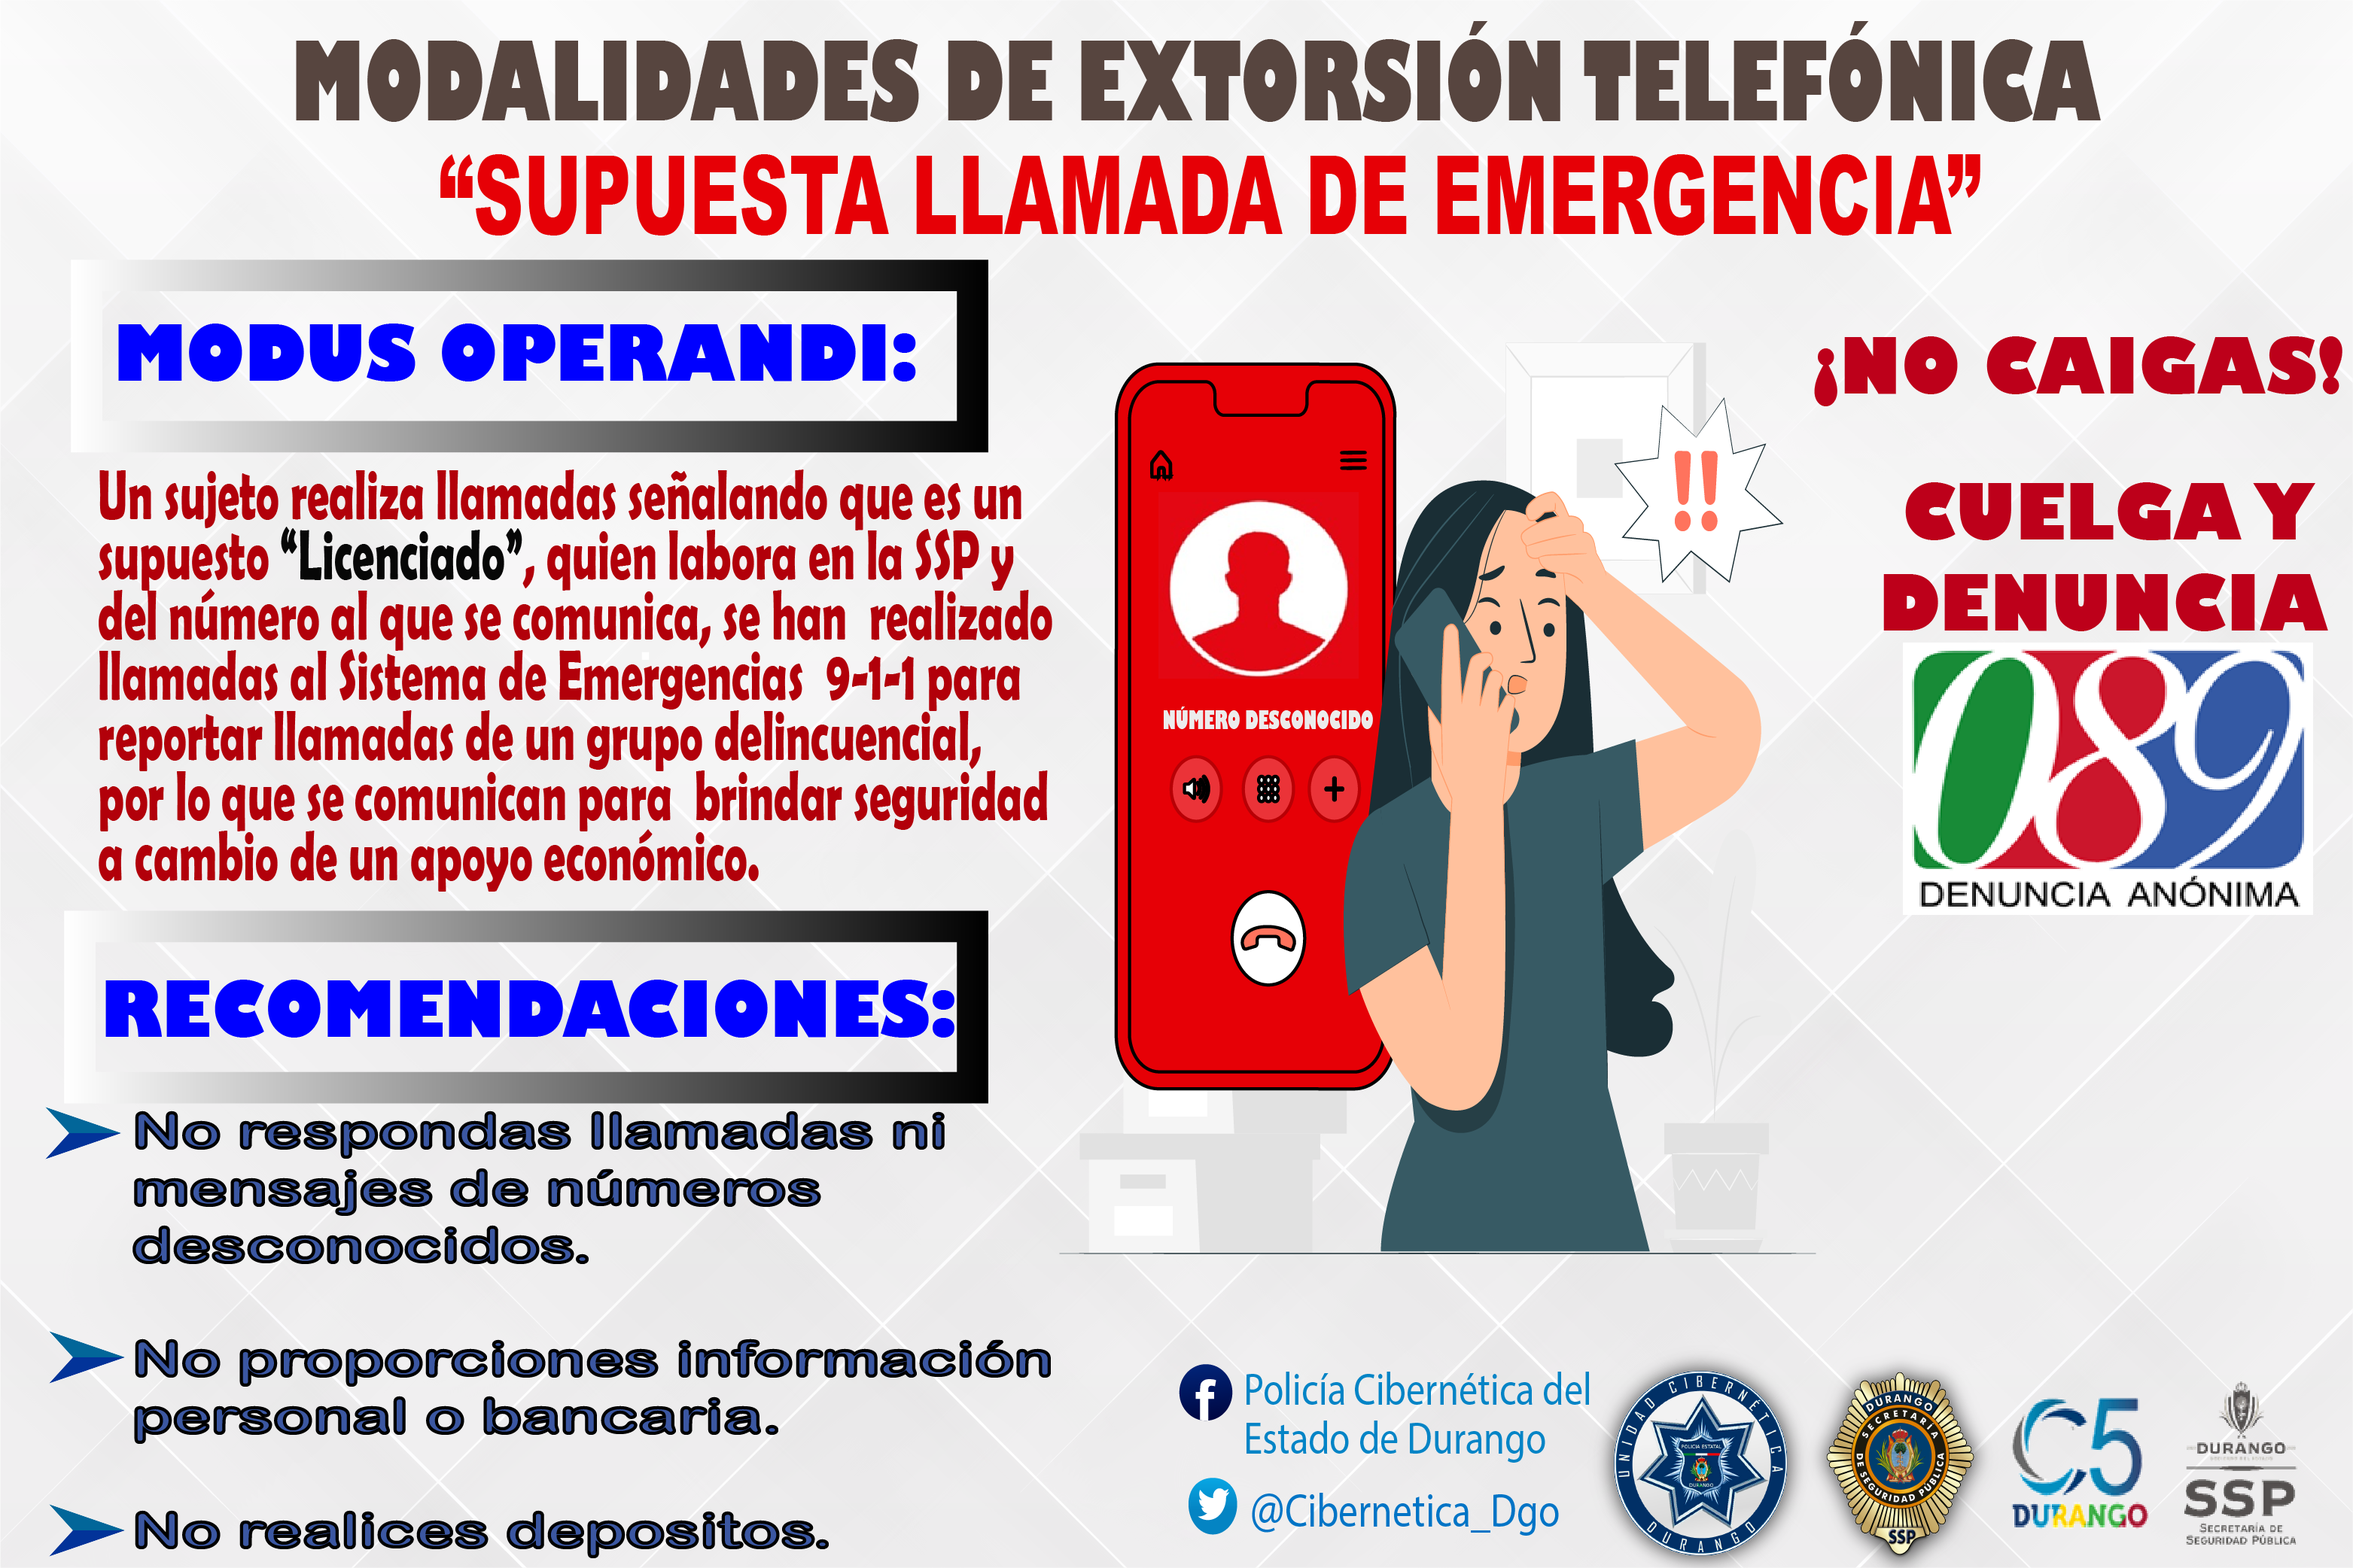
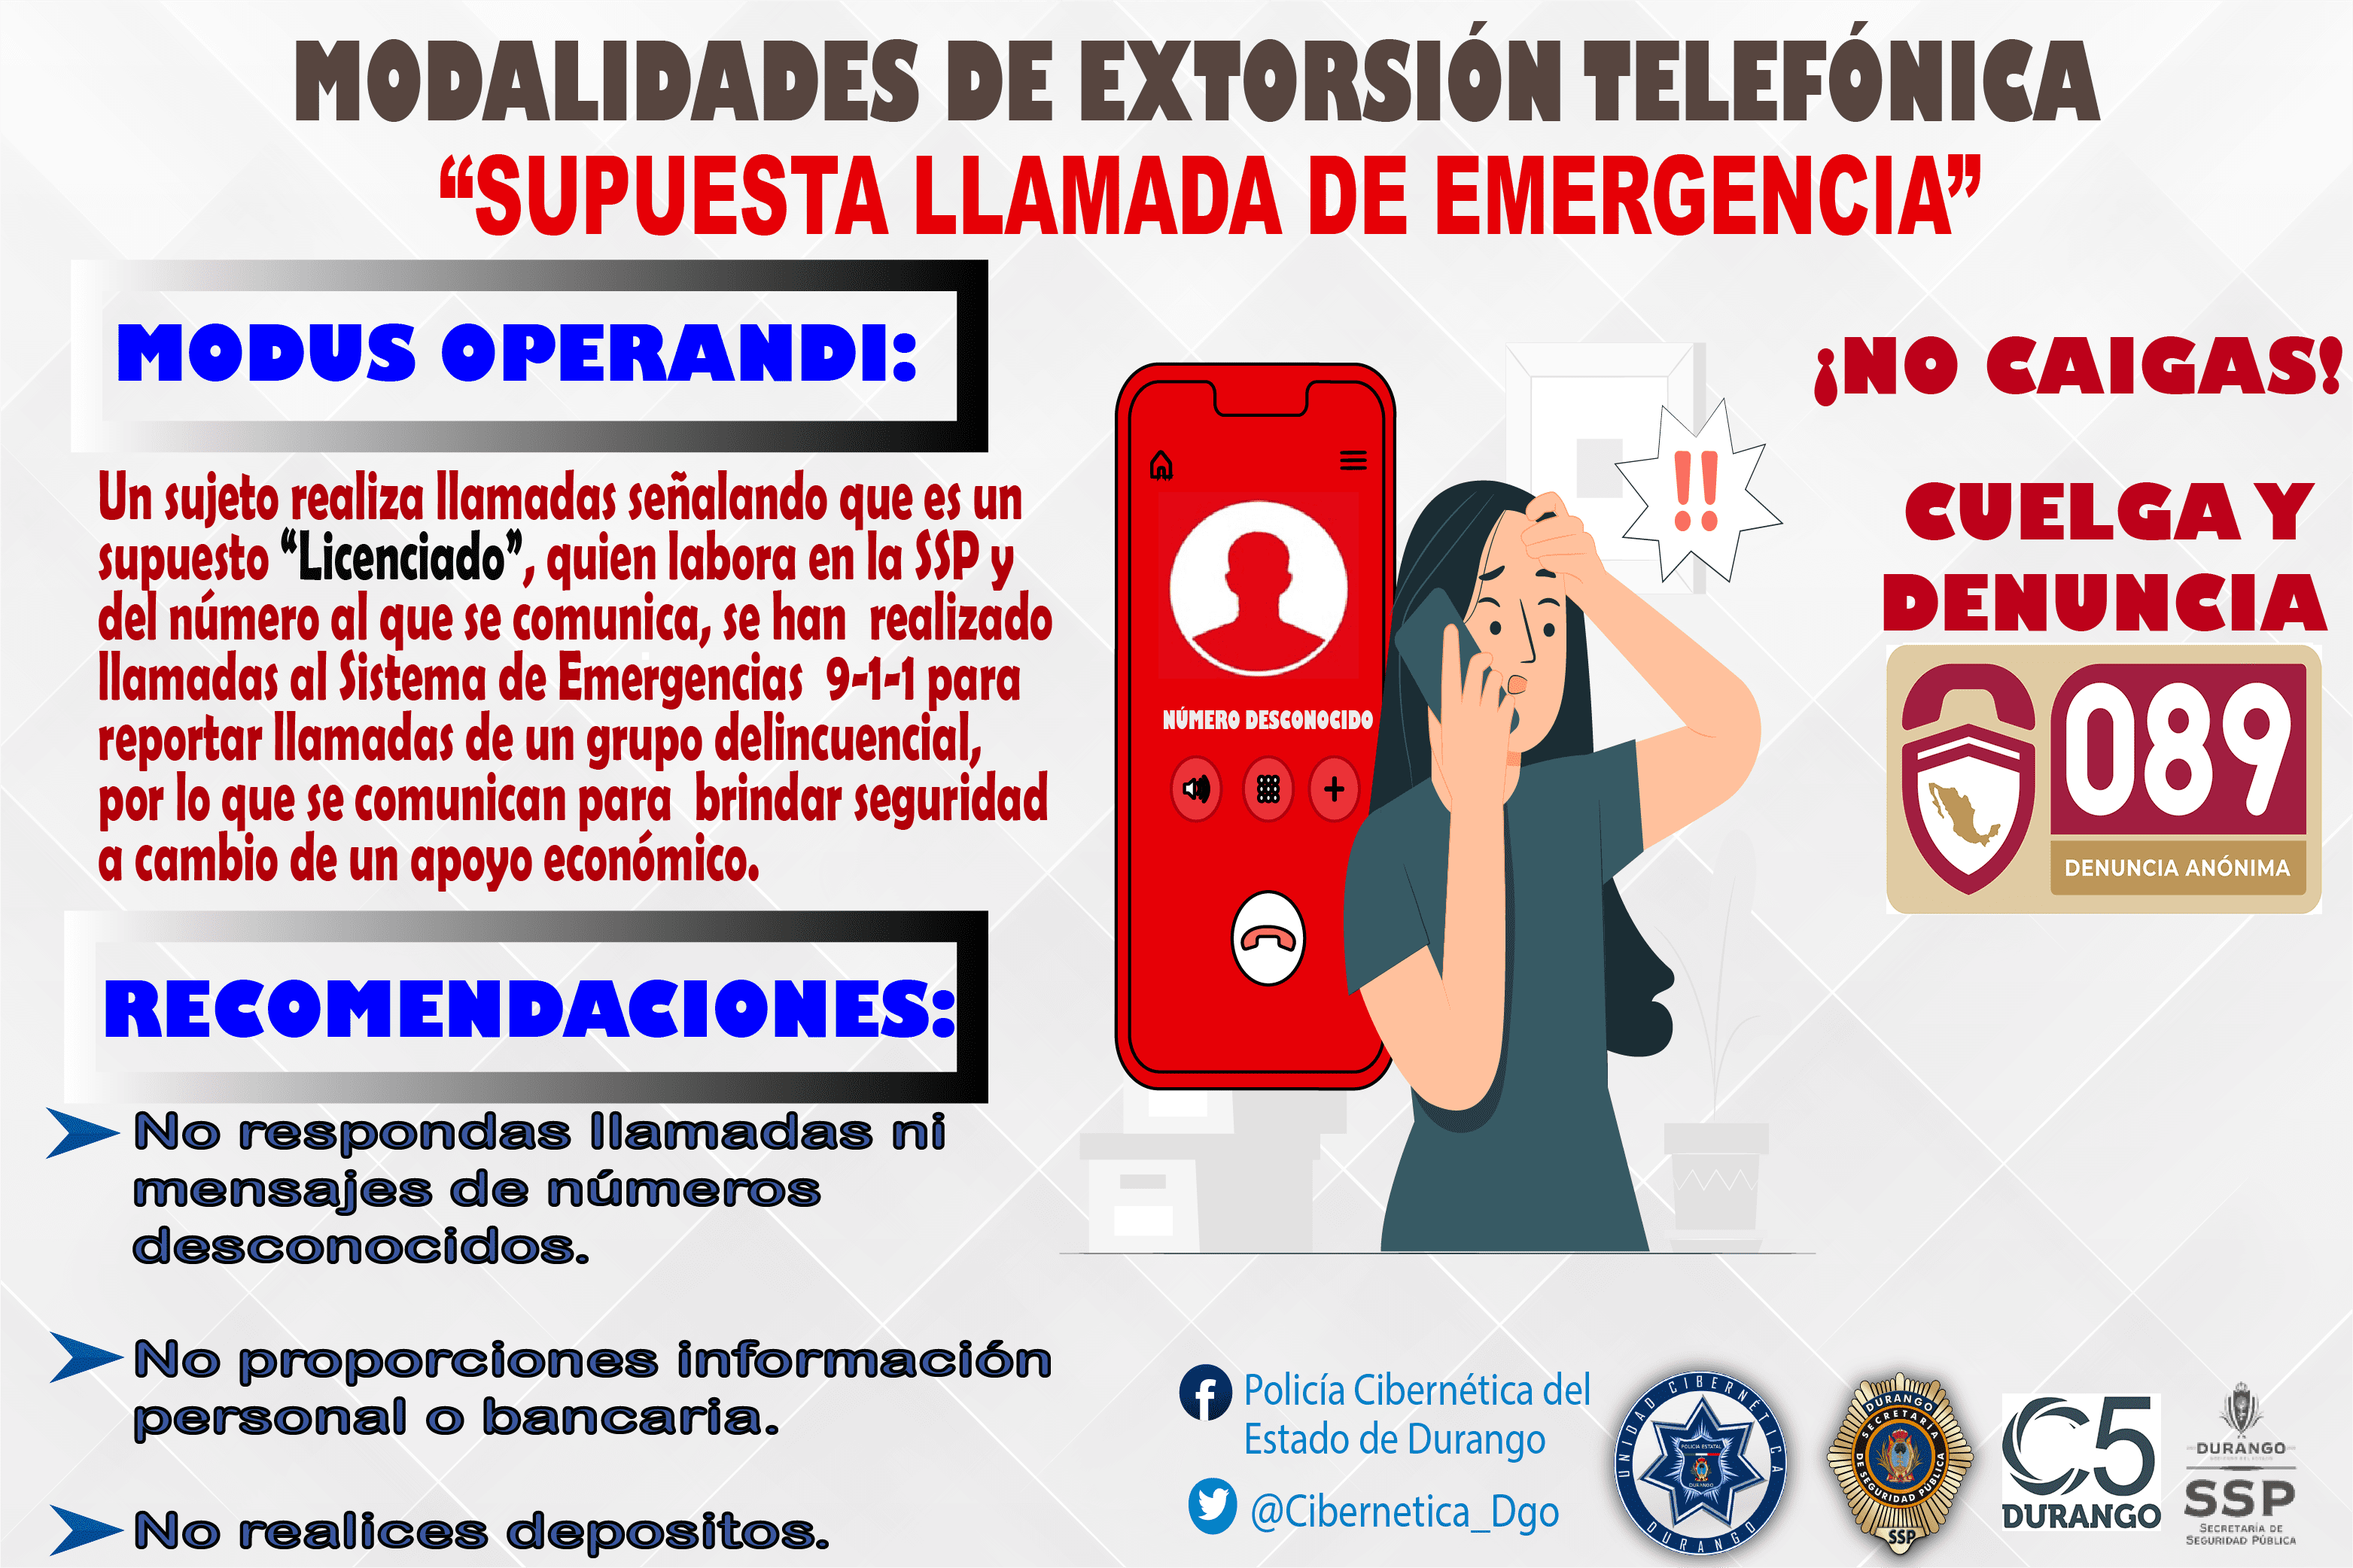
Se modificó nombre y logotipo

diff --git a/fraudes/lib/pages/inicio.dart b/fraudes/lib/pages/inicio.dart
@@ -21,7 +21,7 @@ class _InicioPageState extends State<InicioPage>
   String? get restorationId => widget.restorationId;
 
   final RestorableDateTime _fechaSeleccionada =
-      RestorableDateTime(DateTime.now());
+      RestorableDateTime(DateTime.now().subtract(Duration(days:1)));
 
   late final RestorableRouteFuture<DateTime?> _restorableDatePickerRouteFuture =
       RestorableRouteFuture<DateTime?>(
@@ -46,7 +46,7 @@ class _InicioPageState extends State<InicioPage>
             initialEntryMode: DatePickerEntryMode.calendarOnly,
             initialDate: DateTime.fromMillisecondsSinceEpoch(arguments! as int),
             firstDate: DateTime(2015),
-            lastDate: DateTime.now(),
+            lastDate: DateTime.now().subtract(Duration(days:1)),
             cancelText: 'Cancelar',
             confirmText: 'Seleccionar',
             helpText: 'Seleccione una fecha');
@@ -76,10 +76,10 @@ class _InicioPageState extends State<InicioPage>
     // Limpiar lista
     BlocProvider.of<NumerosBloc>(context).add(OnReiniciarValores());
 
-    // Cargar lista con los números del día
-    DateTime _hoy = DateTime.now();
+    // Cargar lista con los números del día anterior
+    DateTime _ayer = DateTime.now().subtract(Duration(days:1));
     BlocProvider.of<NumerosBloc>(context)
-        .add(OnBusquedaPorFecha('${_hoy.year}-${_hoy.month}-${_hoy.day}'));
+        .add(OnBusquedaPorFecha('${_ayer.year}-${_ayer.month}-${_ayer.day}'));
 
     controllerCircular = AnimationController(
       vsync: this,
@@ -112,7 +112,7 @@ class _InicioPageState extends State<InicioPage>
           appBar: AppBar(
             backgroundColor: Colors.blueGrey,
             title: const Text(
-              'Números de extorsión Durango',
+              'Antiextorsión Durango',
               style: TextStyle(color: Colors.white),
             ),
           ),

diff --git a/fraudes/lib/widgets/logotipos.dart b/fraudes/lib/widgets/logotipos.dart
@@ -18,7 +18,7 @@ class LogotiposWidget extends StatelessWidget {
                 child: Image.asset(
                   'assets/images/gobierno.png',
                   fit: BoxFit.fitHeight,
-                  height: 46,
+                  height: 48,
                 ),
               ),
             ),
@@ -26,7 +26,7 @@ class LogotiposWidget extends StatelessWidget {
               child: Image.asset(
                 'assets/images/ssp.png',
                 fit: BoxFit.fitHeight,
-                height: 42,
+                height: 48,
               ),
             ),
             Expanded(
@@ -40,16 +40,16 @@ class LogotiposWidget extends StatelessWidget {
               child: Image.asset(
                 'assets/images/089.png',
                 fit: BoxFit.fitHeight,
-                height: 38,
+                height: 36,
               ),
             ),
-            Expanded(
-              child: Image.asset(
-                'assets/images/ucibernetica.png',
-                fit: BoxFit.fitHeight,
-                height: 38,
-              ),
-            )
+            // Expanded(
+            //   child: Image.asset(
+            //     'assets/images/ucibernetica.png',
+            //     fit: BoxFit.fitHeight,
+            //     height: 39,
+            //   ),
+            // )
           ],
         ),
       ),

diff --git a/fraudes/lib/widgets/drawer.dart b/fraudes/lib/widgets/drawer.dart
@@ -26,7 +26,7 @@ class _DrawerState extends State<DrawerPrincipal> {
                 crossAxisAlignment: CrossAxisAlignment.center,
                 mainAxisAlignment: MainAxisAlignment.center,
                 children: [
-                  Text('Números de extorsión\nDurango',
+                  Text('Antiextorsión\nDurango',
                   textAlign: TextAlign.center,
                   style: TextStyle(fontSize: 25, color: Colors.blueGrey, fontWeight: FontWeight.w600,)),
                 ],

diff --git a/fraudes/lib/pages/tips.dart b/fraudes/lib/pages/tips.dart
@@ -32,10 +32,10 @@ class _TipsPageState extends State<TipsPage> {
 
     // Generar números aleatorios
     Random rnd = Random();
-    num1 = 1 + rnd.nextInt(11 - 1);
-    num2 = 1 + rnd.nextInt(11 - 1);
+    num1 = 1 + rnd.nextInt(10 - 1);
+    num2 = 1 + rnd.nextInt(10 - 1);
     if (num1 == num2) {
-      num2 = rnd.nextInt(11 - 1);
+      num2 = rnd.nextInt(10 - 1);
     }
   }
 
